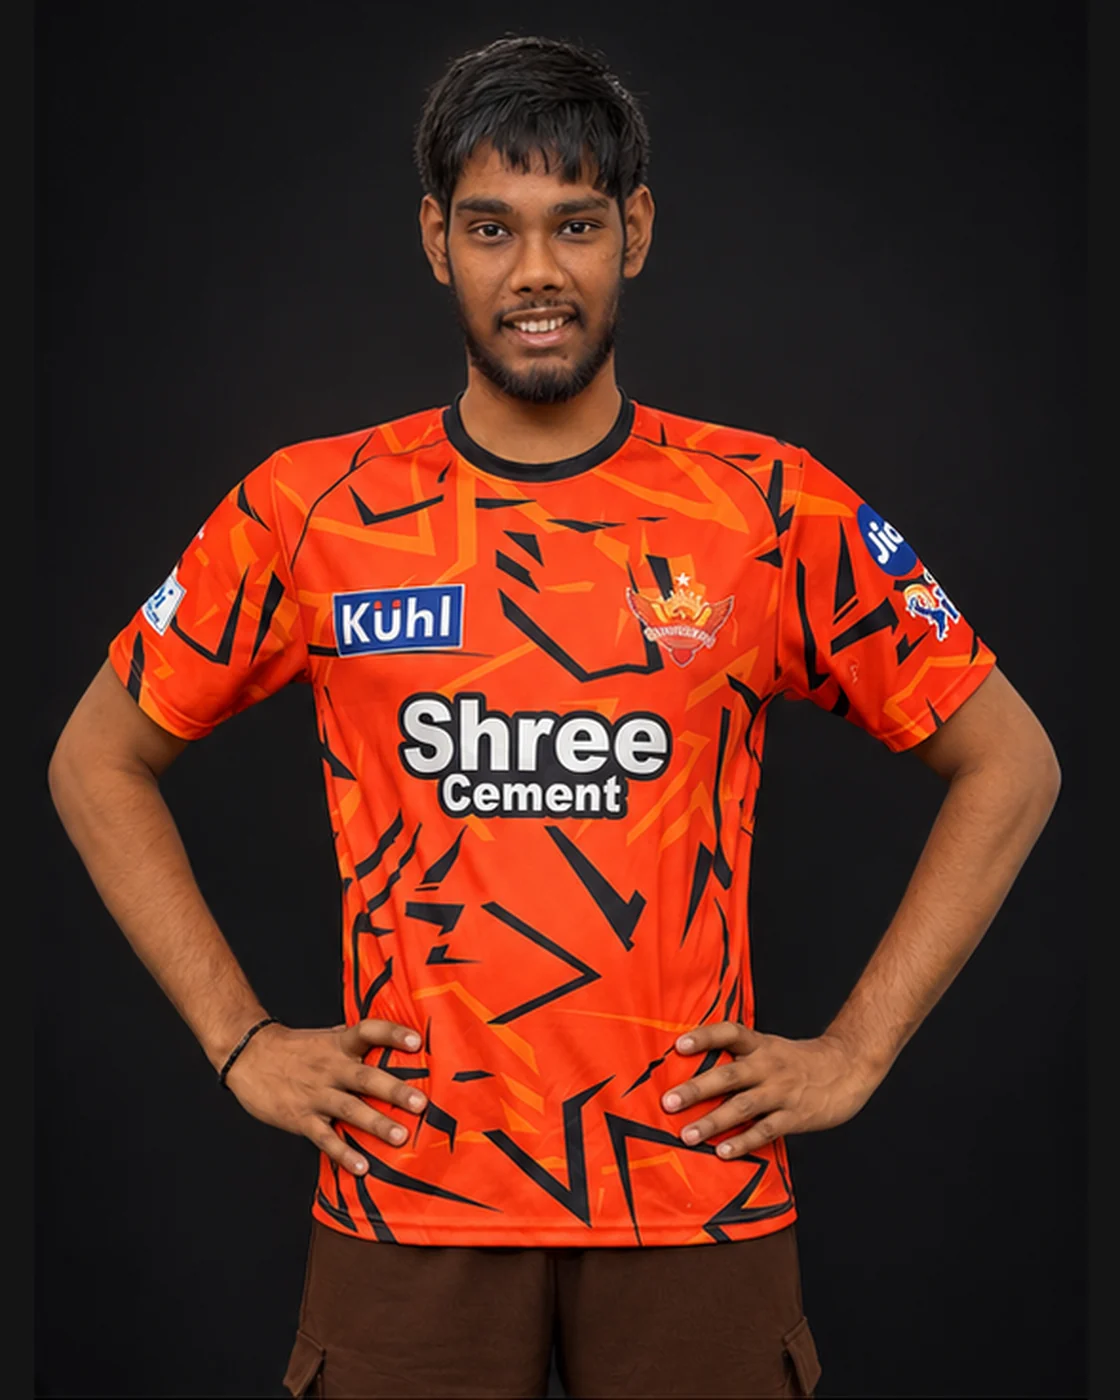
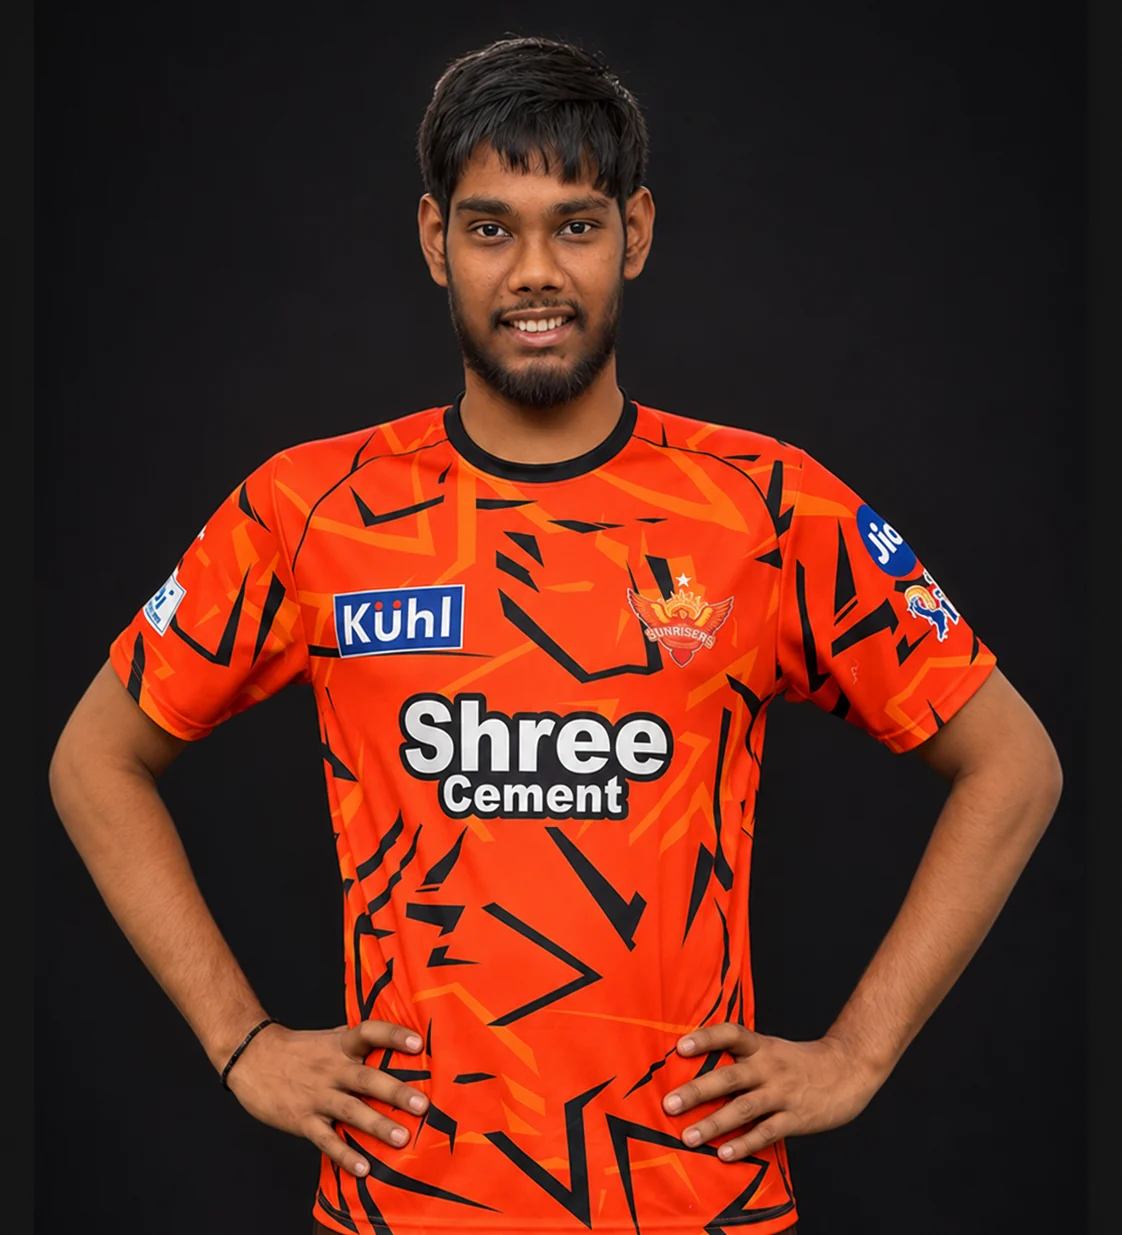
Hero back to arms crossed; fuller-beard hips portrait in locker-room About me and auction card
Claude-Session: https://claude.ai/code/session_018yCDpejobBH6E38wx2Ux6E

diff --git a/srh/index.html b/srh/index.html
@@ -11,7 +11,7 @@
 <link rel="apple-touch-icon" href="media/logos/apple-touch-icon.png">
 <meta name="theme-color" content="#0a0a0b">
 <link rel="preload" href="fonts/anton-latin.woff2" as="font" type="font/woff2" crossorigin>
-<link rel="preload" href="media/photos/hero-hips.webp?v=1795635022" as="image">
+<link rel="preload" href="media/photos/hero-portrait.webp?v=1795635497" as="image">
 <link rel="stylesheet" href="fonts/fonts.css">
 <link rel="stylesheet" href="v3.css?v=1795631660">
 <noscript><style>.hero-copy>*,.hero-me,.hero-heat,.hero-word,.hero-shards,[data-reveal],.bids li{opacity:1!important;transform:none!important}</style></noscript>
@@ -51,7 +51,7 @@
   <div class="lights" aria-hidden="true"><i class="beam b1"></i><i class="beam b2"></i><i class="beam b3"></i><i class="beam b4"></i></div>
   <canvas class="embers" id="embers" aria-hidden="true"></canvas>
   <div class="hero-word" aria-hidden="true"><span>ORANGE</span><span>ARMY</span></div>
-  <img class="hero-me" src="media/photos/hero-hips.webp?v=1795635022" alt="Anudeep Gupta in the Sunrisers Hyderabad jersey, hands on hips" width="1030" height="1205">
+  <img class="hero-me" src="media/photos/hero-portrait.webp?v=1795635497" alt="Anudeep Gupta in the Sunrisers Hyderabad jersey, arms crossed, smiling" width="661" height="1187">
   <div class="hero-copy">
     <div class="crest-row"><img class="hero-crest" src="media/logos/srh-logo.webp" alt="Sunrisers Hyderabad" width="640" height="481"><p class="tag"><i class="live" aria-hidden="true"></i>Breaking · New signing</p></div>
     <h1><span class="h1-a">Welcome to the Orange Army,</span><span class="h1-b">Anudeep <em>Gupta</em></span></h1>
@@ -360,7 +360,7 @@
 <!-- ============================== FANZONE (auction finale + contact) ============================== -->
 <section class="sec fan" id="fanzone" aria-labelledby="fan-h">
   <div class="lot" id="lot">
-    <div class="lot-photo"><img src="media/photos/portrait-hips.webp" alt="Anudeep in the Sunrisers Hyderabad jersey, hands on hips" loading="lazy"><span class="mono lot-tag">Lot 01 · Uncapped</span></div>
+    <div class="lot-photo"><img src="media/photos/portrait-hips.webp?v=1795635497" alt="Anudeep in the Sunrisers Hyderabad jersey, hands on hips" loading="lazy"><span class="mono lot-tag">Lot 01 · Uncapped</span></div>
     <div class="lot-body">
       <b class="lot-name">Anudeep Gupta</b>
       <span>Strategy · Fans · Partnerships</span>
@@ -519,6 +519,6 @@
 <script src="vendor/gsap.min.js"></script>
 <script src="vendor/ScrollTrigger.min.js"></script>
 <script src="vendor/lenis.min.js"></script>
-<script src="v3.js?v=1795634091"></script>
+<script src="v3.js?v=1795635497"></script>
 </body>
 </html>

diff --git a/srh/v3.js b/srh/v3.js
@@ -397,7 +397,7 @@
   };
   var ROOM = [
     { obj: 'hanging', left: 5, top: 3, w: 11, label: 'About me', kicker: 'About', title: 'Anudeep Gupta.',
-      text: 'Hyderabad-raised Orange Army fan and founding-cohort student of Sports Management & Gaming at Masters’ Union. I speak English, Telugu and Hindi, with some Tamil.', nums: [['1 of 8', 'SMG Club core committee'], ['4', 'languages']], role: 'Open to a full-time role or internship, starting now.', link: 'media/resume.pdf', linkText: 'Open my resume', img: 'media/photos/srh-jersey.webp' },
+      text: 'Hyderabad-raised Orange Army fan and founding-cohort student of Sports Management & Gaming at Masters’ Union. I speak English, Telugu and Hindi, with some Tamil.', nums: [['1 of 8', 'SMG Club core committee'], ['4', 'languages']], role: 'Open to a full-time role or internship, starting now.', link: 'media/resume.pdf', linkText: 'Open my resume', img: 'media/photos/portrait-hips.webp?v=1795635497' },
     { obj: 'flag', left: 21, top: 6, w: 9, label: 'One Orange Army', title: 'One Orange Army, three seasons', page: 'one-orange-army' },
     { obj: 'tv', left: 38, top: 3, w: 24, label: 'IPL auction draft', kicker: 'Events · SMG Club', title: 'An auction students asked to repeat.', text: 'An IPL auction for the Masters’ Union SMG Club. Ten student teams planned their budgets around live bidding and surprise wildcards, like a star player ruled out injured mid-auction. It ran on time and within its ₹5K budget. Masters’ Union’s Student Union President rated it the best event across the 13 student clubs, and students asked us to run another.', nums: [['Top', 'event of MU’s 13 clubs, per the Student Union President'], ['Repeat', 'event requested by students'], ['60', 'students, 10 teams']], role: 'My role: ran it end to end.', video: 'media/video/auction.mp4', poster: 'media/photos/auction-draft.webp' },
     { obj: 'board', left: 69, top: 8, w: 14, label: 'Astralis', kicker: 'Esports strategy · Masters’ Union, Term 1', title: 'Rebuilding an esports empire.',
